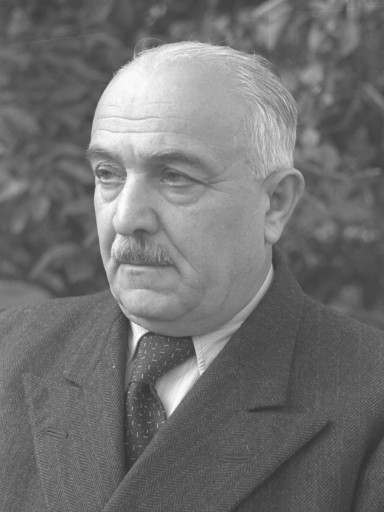
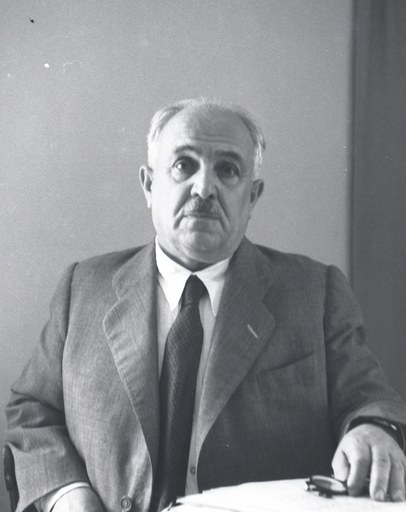
Portraits: Meitar CC BY 4.0 photos for Remez and Levin, and a CC BY path in commons_licences (refs #30) (#438)
Portraits: Meitar Collection (National Library of Israel) CC BY 4.0 photographs for David Remez (Boris Carmi, 1950) and Yitzhak-Meir Levin (Benno Rothenberg, May 1949), replacing GPO files with a US-status risk; attribution in NOTICE, identity from the NLI records. commons_licences.py records an explicit Cc-by-4.0 template with a NOTICE attribution as verified (PD-Israel-only stays refused), and PortraitImport accepts CC BY 4.0. Refs #30.

diff --git a/scripts/oss/commons_licences.py b/scripts/oss/commons_licences.py
@@ -4,9 +4,10 @@
 # ///
 """Write ASSETS.portraits.yaml: one provenance rule per portrait file, read from Wikimedia Commons (licence short name,
 the licence templates on the file page, and the artist). A portrait is 'verified' only when it is public domain or
-CC0 AND its page carries an explicit US-status template (PD-Israel alone does not settle US copyright). Anything else
-is 'owner-verify'; a licence that is neither public domain nor CC0 is recorded as licence 'unknown', which the release
-gate refuses outright.
+CC0 AND its page carries an explicit US-status template (PD-Israel alone does not settle US copyright). A file whose page
+carries an explicit Cc-by-4.0 template and a named artist is recorded as CC-BY-4.0, 'verified' only when NOTICE also
+has an attribution entry for its Commons page (owner ruling, #30). Anything else is 'owner-verify'; a licence that is
+none of these is recorded as licence 'unknown', which the release gate refuses outright.
 
 Usage: uv run scripts/oss/commons_licences.py   (network: commons.wikimedia.org, read-only)"""
 from __future__ import annotations
@@ -36,16 +37,23 @@ def _has_us_status(name: str) -> bool:
     return name.startswith("PD-US") or name == "Cc-zero" or name in US_1996_TEMPLATES or name in US_EXPIRED_COMPOSITES
 
 
-def rule_for(path: str, source: str, licence_short: str, templates: list[str], artist: str) -> dict:
+def rule_for(path: str, source: str, licence_short: str, templates: list[str], artist: str,
+             attributed: bool = False) -> dict:
     names = [t.removeprefix("Template:") for t in templates]
     low = licence_short.lower()
+    cc_by = low == "cc by 4.0" and "Cc-by-4.0" in names
     licence = "CC0-1.0" if low.startswith("cc0") else "Public-Domain" if low.startswith(("public domain", "pd")) \
-        else "unknown"
+        else "CC-BY-4.0" if cc_by else "unknown"
     rule = {"glob": path, "licence": licence, "source": source, "status": "verified",
             "commons": f"{licence_short}; {', '.join(names)}",
             "artist": re.sub(r"<[^>]+>", "", html.unescape(artist)).strip()}
     if licence == "unknown":
-        rule.update(status="owner-verify", note=f"Commons licence '{licence_short}' is not public domain or CC0")
+        rule.update(status="owner-verify", note=f"Commons licence '{licence_short}' is not public domain, CC0 or CC BY 4.0")
+    elif cc_by:
+        if not rule["artist"]:
+            rule.update(status="owner-verify", note="CC BY 4.0 needs a named artist for the attribution")
+        elif not attributed:
+            rule.update(status="owner-verify", note="CC BY 4.0 needs an attribution entry for this file in NOTICE")
     elif any(n == "Not-PD-US-URAA" or n.startswith("Not-PD-US-URAA/") for n in names):
         rule.update(status="owner-verify", note="Commons explicitly warns Not-PD-US-URAA: US copyright restored")
     elif not any(_has_us_status(n) for n in names):
@@ -78,16 +86,18 @@ def main() -> int:
         if (ROOT / built).exists():
             pairs.append((built, portrait["source"]))
     pairs += EXTRA
+    notice = (ROOT / "NOTICE").read_text(encoding="utf-8")
     s = requests.Session()
     s.headers.update(UA)
     rules = []
     for path, source in pairs:
         title = "File:" + unquote(urlparse(source).path.rsplit("File:", 1)[1]).replace("_", " ")
         short, templates, artist = _commons(title, s)
-        rules.append(rule_for(path, source, short, templates, artist))
+        rules.append(rule_for(path, source, short, templates, artist, attributed=source in notice))
         print(f"{rules[-1]['status']:13} {path}  [{rules[-1]['commons']}]")
     header = ("# GENERATED by scripts/oss/commons_licences.py from content/people.yaml and Wikimedia Commons. Do not edit\n"
-              "# by hand: re-run the script. A row is 'verified' only with an explicit US-status template.\n")
+              "# by hand: re-run the script. A PD or CC0 row is 'verified' only with an explicit US-status template; a CC BY 4.0\n"
+              "# row only with a Cc-by-4.0 template, a named artist and a NOTICE entry.\n")
     (ROOT / "ASSETS.portraits.yaml").write_text(
         header + yaml.safe_dump({"rules": rules}, sort_keys=False, allow_unicode=True, width=120), encoding="utf-8")
     return 0

diff --git a/tools/tests/test_meitar_portraits.py b/tools/tests/test_meitar_portraits.py
@@ -1,0 +1,68 @@
+"""The #30 batch (Remez, Levin): Meitar CC BY 4.0 portraits keep source, runtime, credit and licence record together."""
+from pathlib import Path
+import re
+
+from PIL import Image
+import yaml
+
+ROOT = Path(__file__).resolve().parents[2]
+BATCH = {
+    "remez": ("David_Remez_(997009452176205171).jpg", "promo/ref/people/David_Remez_CCBY_1950.jpg", 0.38, "Boris Carmi"),
+    "levin": ("Yitzhak-Meir_Levin_(997008137163805171).jpg", "promo/ref/people/Yitzhak-Meir_Levin_CCBY_1949.jpg", 0.41,
+              "Benno Rothenberg"),
+}
+PEOPLE = {p["id"]: p for p in yaml.safe_load((ROOT / "content/people.yaml").read_text(encoding="utf-8"))["people"]}
+RULES = yaml.safe_load((ROOT / "ASSETS.portraits.yaml").read_text(encoding="utf-8"))["rules"]
+
+
+def source(name):
+    return "https://commons.wikimedia.org/wiki/File:" + name
+
+
+def test_people_record_the_cc_by_source_file_and_focus():
+    for pid, (name, file, focus, _artist) in BATCH.items():
+        p = PEOPLE[pid]["portrait"]
+        assert (p["license"], p["source"], p["file"], p["focus_y"]) == ("CC BY 4.0", source(name), file, focus)
+
+
+def test_licence_rows_are_cc_by_and_verified_for_source_and_runtime():
+    for pid, (name, file, _focus, artist) in BATCH.items():
+        for path in (file, f"unity/Assets/UI/Portraits/{pid}.jpg"):
+            r = next(r for r in RULES if r["glob"] == path)
+            assert r["licence"] == "CC-BY-4.0" and r["status"] == "verified" and r["source"] == source(name)
+            assert r["artist"] == artist and "Cc-by-4.0" in r["commons"]
+
+
+def test_the_old_government_press_office_files_are_gone_from_the_rules():
+    gone = {"promo/ref/people/David_Remez.jpg", "promo/ref/people/Yitzhak-Meir_Levin.jpg"}
+    assert not gone & {r["glob"] for r in RULES}
+    assert not any((ROOT / g).exists() for g in gone)
+
+
+def test_runtime_is_the_source_crop_and_small():
+    for pid, (_name, file, _focus, _artist) in BATCH.items():
+        runtime = ROOT / f"unity/Assets/UI/Portraits/{pid}.jpg"
+        assert runtime.read_bytes() == (ROOT / file).read_bytes()
+        with Image.open(runtime) as image:
+            assert image.format == "JPEG" and image.height == 512 and 380 <= image.width <= 420
+
+
+def test_notice_credits_each_file_and_the_catalog_focus_matches():
+    notice = (ROOT / "NOTICE").read_text(encoding="utf-8")
+    catalog = (ROOT / "unity/Assets/UI/Portraits/PortraitCatalog.asset").read_text()
+    listing = (ROOT / "unity/Assets/UI/Portraits/PORTRAITS.txt").read_text()
+    for pid, (name, _file, focus, artist) in BATCH.items():
+        assert source(name) in notice and artist in notice
+        assert f"{pid} | CC BY 4.0 | {source(name)}\n" in listing
+        entry = re.search(rf"  - personId: {pid}\n(.*?)(?=  - personId:|\Z)", catalog, re.S).group(1)
+        assert f"focusY: {focus}" in entry
+
+
+def test_portraits_txt_header_matches_the_importer_and_order_matches_people_yaml():
+    importer = (ROOT / "unity/Assets/Editor/PortraitImport.cs").read_text(encoding="utf-8")
+    header = (ROOT / "unity/Assets/UI/Portraits/PORTRAITS.txt").read_text(encoding="utf-8").splitlines()[0]
+    assert f'new StringBuilder("{header}\\n")' in importer
+    order = [pid for pid, p in PEOPLE.items() if p.get("portrait") and p["portrait"].get("file")]
+    listed = [l.split(" | ")[0] for l in (ROOT / "unity/Assets/UI/Portraits/PORTRAITS.txt").read_text(encoding="utf-8").splitlines()[1:]]
+    catalog = re.findall(r"  - personId: (\w+)", (ROOT / "unity/Assets/UI/Portraits/PortraitCatalog.asset").read_text())
+    assert listed == order and catalog == order

diff --git a/scripts/oss/tests/test_commons_licences.py b/scripts/oss/tests/test_commons_licences.py
@@ -21,7 +21,7 @@ def test_cc0_is_verified():
 def test_share_alike_is_recorded_as_unknown_licence():
     r = cl.rule_for("p/a.jpg", "s", "CC BY-SA 4.0", ["Template:Cc-by-sa-4.0"], "")
     assert r["licence"] == "unknown" and r["status"] == "owner-verify"
-    assert "not public domain or CC0" in r["note"]
+    assert "not public domain, CC0 or CC BY 4.0" in r["note"]
 
 
 def test_explicit_us_restoration_warning_cannot_be_verified_by_nested_pd_text():
@@ -89,3 +89,33 @@ def test_plain_old_tag_and_composite_helpers_are_not_us_status():
 def test_primary_us_tags_still_verify():
     for tag in ("PD-US-expired", "PD-USGov", "PD-USGov-NARA", "PD-US-no notice"):
         assert cl.rule_for("p/a.jpg", "s", "Public domain", ["Template:" + tag], "")["status"] == "verified"
+
+
+CC_BY = ["Template:Cc-by-4.0", "Template:Cc-by-layout"]
+
+
+def test_cc_by_with_artist_and_notice_entry_is_verified():
+    r = cl.rule_for("p/a.jpg", "s", "CC BY 4.0", CC_BY, "<a href='x'>Boris Carmi</a>", attributed=True)
+    assert r["licence"] == "CC-BY-4.0" and r["status"] == "verified" and r["artist"] == "Boris Carmi"
+    assert "note" not in r
+
+
+def test_cc_by_without_notice_entry_needs_the_owner():
+    r = cl.rule_for("p/a.jpg", "s", "CC BY 4.0", CC_BY, "Boris Carmi")
+    assert r["licence"] == "CC-BY-4.0" and r["status"] == "owner-verify" and "NOTICE" in r["note"]
+
+
+def test_cc_by_without_artist_needs_the_owner():
+    r = cl.rule_for("p/a.jpg", "s", "CC BY 4.0", CC_BY, "", attributed=True)
+    assert r["status"] == "owner-verify" and "artist" in r["note"]
+
+
+def test_cc_by_text_without_the_template_is_unknown():
+    r = cl.rule_for("p/a.jpg", "s", "CC BY 4.0", [], "Boris Carmi", attributed=True)
+    assert r["licence"] == "unknown" and r["status"] == "owner-verify"
+
+
+def test_cc_by_4_0_is_not_an_older_or_share_alike_version():
+    for short in ("CC BY 3.0", "CC BY-SA 4.0"):
+        r = cl.rule_for("p/a.jpg", "s", short, CC_BY, "Boris Carmi", attributed=True)
+        assert r["licence"] == "unknown"

diff --git a/unity/Assets/Editor/PortraitImport.cs b/unity/Assets/Editor/PortraitImport.cs
@@ -32,8 +32,8 @@ namespace Statecraft.Game.EditorTools
             // Validate everything first, so a bad record leaves nothing half-imported.
             foreach (var p in people)
             {
-                if (p.Portrait!.License != "Public domain" && p.Portrait.License != "CC0")
-                    throw new System.InvalidOperationException($"people.yaml: {p.Id} portrait licence '{p.Portrait.License}' is not public domain or CC0");
+                if (p.Portrait!.License != "Public domain" && p.Portrait.License != "CC0" && p.Portrait.License != "CC BY 4.0")
+                    throw new System.InvalidOperationException($"people.yaml: {p.Id} portrait licence '{p.Portrait.License}' is not public domain, CC0 or CC BY 4.0");
                 var source = Path.Combine(Paths.RepoRoot, p.Portrait.File);
                 if (!File.Exists(source)) throw new FileNotFoundException($"people.yaml: {p.Id} portrait file missing", source);
             }
@@ -53,7 +53,7 @@ namespace Statecraft.Game.EditorTools
             foreach (var stale in Directory.GetFiles(Folder, "*.jpg").Select(f => f.Replace('\\', '/')).Where(f => !wanted.Contains(f)).ToList())
                 AssetDatabase.DeleteAsset(stale);
 
-            var credits = new StringBuilder("# Portraits shipped in the build (copied from people.yaml portrait records; public domain only).\n");
+            var credits = new StringBuilder("# Portraits shipped in the build (copied from people.yaml portrait records; public domain, CC0 and CC BY 4.0 (attribution in NOTICE)).\n");
             var catalog = AssetDatabase.LoadAssetAtPath<PortraitCatalog>(CatalogPath);
             if (catalog == null) { catalog = ScriptableObject.CreateInstance<PortraitCatalog>(); AssetDatabase.CreateAsset(catalog, CatalogPath); }
             catalog.entries.Clear();

diff --git a/unity/Assets/Scripts/UI/PortraitCatalog.cs b/unity/Assets/Scripts/UI/PortraitCatalog.cs
@@ -7,7 +7,7 @@ namespace Statecraft.Game.UI
 {
     /// <summary>Person id -> portrait texture (tech notes section 7): imported assets referenced from a scene object, so
     /// they ship in the build's data file and need no runtime loading. Built by the editor tool PortraitImport from the
-    /// public-domain files people.yaml names (portrait.file, licence and source recorded there).</summary>
+    /// public-domain, CC0 and CC BY 4.0 files people.yaml names (portrait.file, licence and source recorded there).</summary>
     [CreateAssetMenu(menuName = "Statecraft/Portrait Catalog")]
     public sealed class PortraitCatalog : ScriptableObject
     {

diff --git a/unity/Assets/Tests/EditMode/PortraitImportTests.cs b/unity/Assets/Tests/EditMode/PortraitImportTests.cs
@@ -15,7 +15,7 @@ public class PortraitImportTests
     const string Folder = "Assets/UI/Portraits";
 
     static int ExpectedCount() => ContentLoader.Load(Paths.Content).People.Count(p => p.Portrait != null && p.Portrait.File != ""
-        && (p.Portrait.License == "Public domain" || p.Portrait.License == "CC0"));
+        && (p.Portrait.License == "Public domain" || p.Portrait.License == "CC0" || p.Portrait.License == "CC BY 4.0"));
 
     static void RunImport()
     {

diff --git a/LICENSING.md b/LICENSING.md
@@ -12,7 +12,7 @@ Different parts of this repository are under different licences. Where a file is
 | AI-generated images | `promo/final/01`–`08`, `promo/ref/*-src.jpg`, `docs/images/hero-concept-1936.jpg`, `promo/start-screen/*.png`, `unity/Assets/UI/StartScreen/declaration-hall.jpg` | Marked [CC0 1.0](LICENSES/CC0-1.0.txt). No rights are claimed. Purely AI-generated output may not be copyrightable. Made with the ElevenLabs Image API (see `promo/CREDITS.md`), except the start screen's option images, made with Dreamina; the start screen's painting was made on ElevenLabs from a Dreamina option (`ASSETS.yaml`). |
 | Quoted public-domain text | `docs/sources/declaration-1948/` | The Declaration of the Establishment of the State of Israel (1948): the Hebrew of the Official Gazette and the English translation. Public domain; sources in each file and in `ASSETS.yaml`. |
 | In-engine captures | `promo/final/09`, `10`, `docs/images/build-*.jpg`, `docs/images/social-preview.jpg`, `spikes/m0/evidence/*.jpg`, `spikes/m0/evidence/*.txt` (logs) | CC BY 4.0. They show the Copernicus-derived terrain; see below. |
-| Portraits | `unity/Assets/UI/Portraits/`, `promo/ref/people/`, `promo/ref/*-sheet.jpg` | Public-domain photographs from Wikimedia Commons, plus one CC0 file (Moshe Dayan, 1962). Per-file sources are in `content/people.yaml` and `promo/CREDITS.md`. |
+| Portraits | `unity/Assets/UI/Portraits/`, `promo/ref/people/`, `promo/ref/*-sheet.jpg` | Public-domain photographs from Wikimedia Commons, CC0 files, and Meitar Collection photographs under CC BY 4.0 (credits in [NOTICE](NOTICE)). Per-file sources are in `content/people.yaml` and `promo/CREDITS.md`. |
 | Event-card photographs | `unity/Assets/UI/EventImages/*.jpg` | Archival photographs from Wikimedia Commons, each under its own licence: CC BY 4.0 (Meitar Collection, National Library of Israel; credits in [NOTICE](NOTICE)), CC0 1.0 (Nationaal Archief) or public domain (US National Archives). All are adapted (graded and cropped). Per-file records in `ASSETS.yaml`; the mapping `event-images.yaml` beside them is CC BY 4.0 like the other UI assets. |
 | Fonts | `unity/Assets/UI/Fonts/` | EB Garamond, [SIL Open Font License 1.1](unity/Assets/UI/Fonts/OFL.txt); Frank Ruhl Libre (`FrankRuhlLibre/`), [SIL Open Font License 1.1](unity/Assets/UI/Fonts/FrankRuhlLibre/OFL.txt) |
 | Terrain heightmap | `unity/Assets/StreamingAssets/map/heightmap.*`, `content/map/hexes.json` (elevations) | Derived from Copernicus GLO-30 under the Copernicus DEM licence. Required notice: "produced using Copernicus WorldDEM-30 (c) DLR e.V. 2010-2014 and (c) Airbus Defence and Space GmbH 2014-2018 provided under COPERNICUS by the European Union and ESA; all rights reserved" |

diff --git a/promo/CREDITS.md b/promo/CREDITS.md
@@ -9,7 +9,8 @@ not final game art. Steam requires disclosure of AI-generated marketing assets.
 Public domain: David Ben-Gurion (D597-087), Eliezer Kaplan, Moshe Sharett (Portrait), Haim-Moshe Shapira
 (Moshe_Shapira.jpg), Yitzhak Gruenbaum (1948), Pinchas Rosen, Aharon Zisling, Mordechai Bentov,
 Bechor-Shalom Sheetrit (Shitreet), Yehuda Leib Maimon, Peretz Bernstein, David Remez (cropped),
-Yitzhak Meir Levin.
+Yitzhak Meir Levin. The GPO photographs of Remez and Levin are still in promo/ref/cabinet-1948-sheet.jpg; their
+in-game portraits are replaced below.
 CC0: "Moshe Dayan met mgr. A.C. Ramselaar (cropped).jpg" (1962).
 
 ## In-game portraits from US-safe sources (licence checked on 2026-10-11)
@@ -42,6 +43,18 @@ CC0: "Moshe Dayan met mgr. A.C. Ramselaar (cropped).jpg" (1962).
   https://www.nationaalarchief.nl/onderzoeken/fotocollectie/aed665c6-d0b4-102d-bcf8-003048976d84
   Collection Israel 1948-1949; archive date field 1948-01-01 conflicts with the caption identifying the
   new state's foreign minister. No exact day is inferred. Old GPO likeness reference above remains unchanged.
+- David Remez: crop of Boris Carmi / Meitar Collection / National Library of Israel, 1950, CC BY 4.0
+  (attribution in NOTICE):
+  https://commons.wikimedia.org/wiki/File:David_Remez_(997009452176205171).jpg
+  Identity: NLI record 997009452176205171, «פורטרט של חבר הכנסת מטעם מפא"י, דוד רמז.» (archive ARC. 4* 2069 / 24775).
+  Replaces the earlier Government Press Office photograph (PD-Israel only, no US status). Likeness check by the
+  maintainer still needed.
+- Yitzhak-Meir Levin: crop of Benno Rothenberg / Meitar Collection / National Library of Israel, 1949, CC BY 4.0
+  (attribution in NOTICE):
+  https://commons.wikimedia.org/wiki/File:Yitzhak-Meir_Levin_(997008137163805171).jpg
+  Identity: NLI record 997008137163805171, «יצחק מאיר לוין עובר על מסמכים במשרדו». The bearded man at the desk on the
+  right of a two-person photograph; he looks down at papers. Replaces the earlier Government Press Office photograph.
+  Likeness check by the maintainer still needed.
 
 ## Facts shown (verified 2026-10-09)
 - Provisional Government (May 1948): 13 ministers and portfolios; Provisional State Council 37 members,

diff --git a/CHANGELOG.md b/CHANGELOG.md
@@ -8,6 +8,7 @@ adds a line under **Unreleased**; CI's `Changelog` job checks this (see `CONTRIB
 ## [Unreleased]
 
 ### Added
+- Portraits for Remez and Levin (refs #30): Government Press Office photographs, which Commons marks PD-Israel only, are replaced by Meitar Collection photographs (National Library of Israel, 1950 and 1949) under CC BY 4.0, cropped, with per-photo credits in `NOTICE`. `scripts/oss/commons_licences.py` now records an explicit Cc-by-4.0 file as `CC-BY-4.0` and marks it verified only with a named artist and a `NOTICE` entry; public domain, CC0 and the PD-Israel-only refusal are unchanged. Likeness check and the NLI confirmation before a paid release stay with the maintainer. Unity not run.
 - The website (`site/`, refs #393): a static Astro site in English (`/en/`) and Hebrew (`/he/`, right to left) with Home, Play, History, Sources, Media, Devlog, Contributors, How we make it, Press, Contribute and Privacy. Every image and video carries a visible label (in-engine capture with build and date, AI-generated concept art, or AI cinematic promo, not gameplay); the History and Sources pages show the events and sources from `content/` as they are. The in-engine images are the README's screenshots, read from `docs/images/build-*.jpg` and described in `docs/images/captures.yaml`, so retaking them updates the site. The cinematic trailer is hosted as one 720p H.264 encode, shown behind a click with captions in its own labelled section after the gameplay; a real gameplay clip listed in `captures.yaml` becomes the home page's muted hero loop, with a pause button. Self-hosted fonts and images, no analytics, no cookies and nothing loaded from another site. A `Site` workflow builds and checks it on pull requests; deploying to GitHub Pages waits for the owner.
 - The GDD v0.1 loop switch (`systems.loop` in eras.yaml, default `legacy`), its state (cities, units, objectives and score,
   hashed only when set) and save schema 2, which names its ruleset: a game refuses a save made under another ruleset with a
